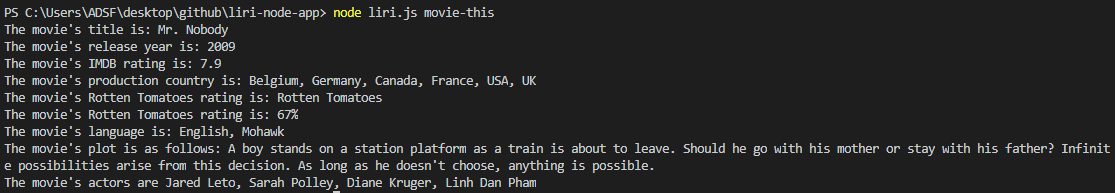
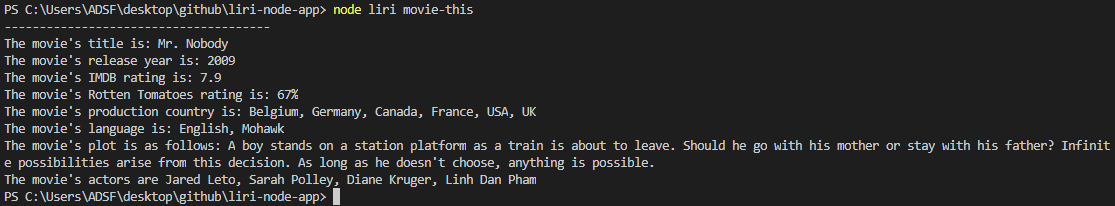
updates

Changed region(s): [[0.0, 0.1244, 1.0, 1.0], [0.0, 0.0, 0.4574, 0.0933]]

diff --git a/liri.js b/liri.js
@@ -50,7 +50,7 @@ switch(command) {
 
     case "do-what-it-says":
         doWhat();
-        
+
     default:
         syntaxError();
 };
@@ -59,7 +59,7 @@ switch(command) {
 // concert-this
 function concert() {
     var request = require("request");
-
+    
     request("https://rest.bandsintown.com/artists/" + media + "/events?app_id=codingbootcamp", function(error, response, body) {
     
         // If the request is successful (i.e. if the response status code is 200)
@@ -121,19 +121,21 @@ function movie() {
       if (!error && response.statusCode === 200) {
     
         // console.log(JSON.parse(body))
+        console.log("--------------------------------------");
         console.log("The movie's title is: " + JSON.parse(body).Title);
         console.log("The movie's release year is: " + JSON.parse(body).Year);
         console.log("The movie's IMDB rating is: " + JSON.parse(body).imdbRating);
+        console.log("The movie's Rotten Tomatoes rating is: " + JSON.parse(body).Ratings[1].Value);
         console.log("The movie's production country is: " + JSON.parse(body).Country);
-        var rottenT = JSON.parse(body).Ratings[1];
+        // var rottenT = JSON.parse(body).Ratings[1];
         // console.log(Object.entries(rottenT));
         // console.log(rottenT);
-        Object.entries(rottenT).forEach(([key, value]) => {
-            console.log("The movie's Rotten Tomatoes rating is: " + `${value}`)});
+        // Object.entries(rottenT).forEach(([key, value]) => {
+        //     console.log("The movie's Rotten Tomatoes rating is: " + `${value}`)});
         // Object.entries(rottenT).forEach(([key, value]) => {
         //     console.log(`${value}`)});
         // console.log(`The movie's Rotten Tomatoes rating is: ${JSON.parse(body).Ratings[1]}`);
-        console.log("The movie's language is: " + JSON.parse(body).Language);
+        console.log("The movie's language is: " + JSON.parse(body).Language);        
         console.log("The movie's plot is as follows: " + JSON.parse(body).Plot);
         console.log("The movie's actors are " + JSON.parse(body).Actors);
       };
